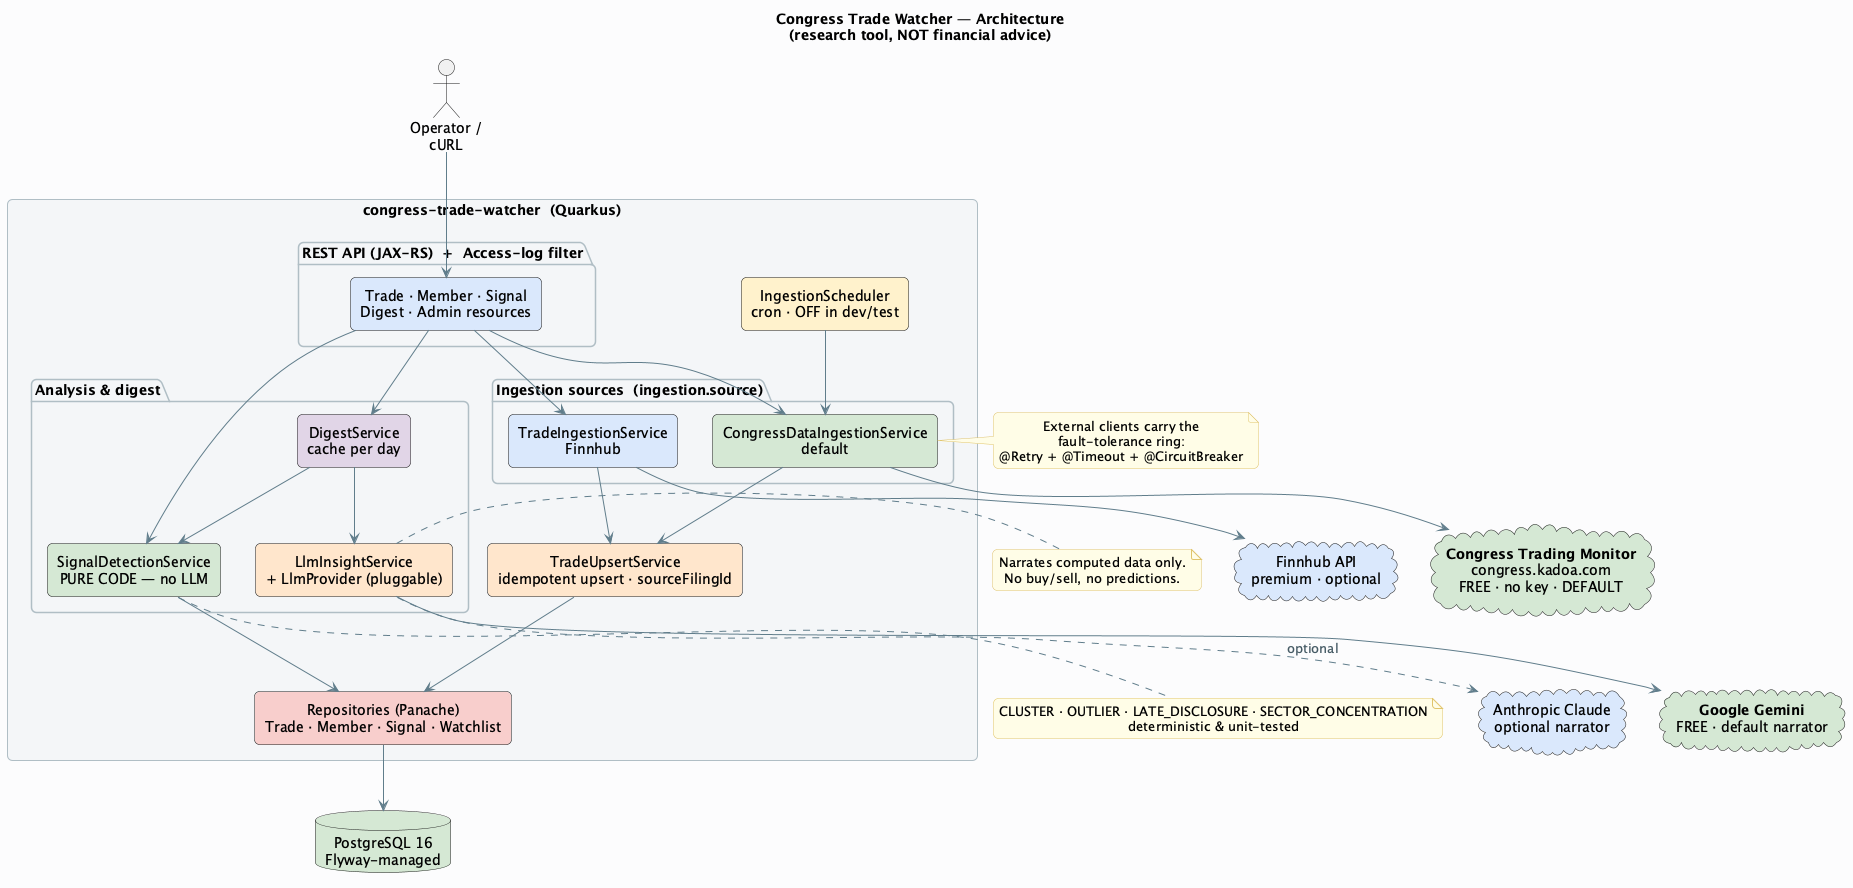
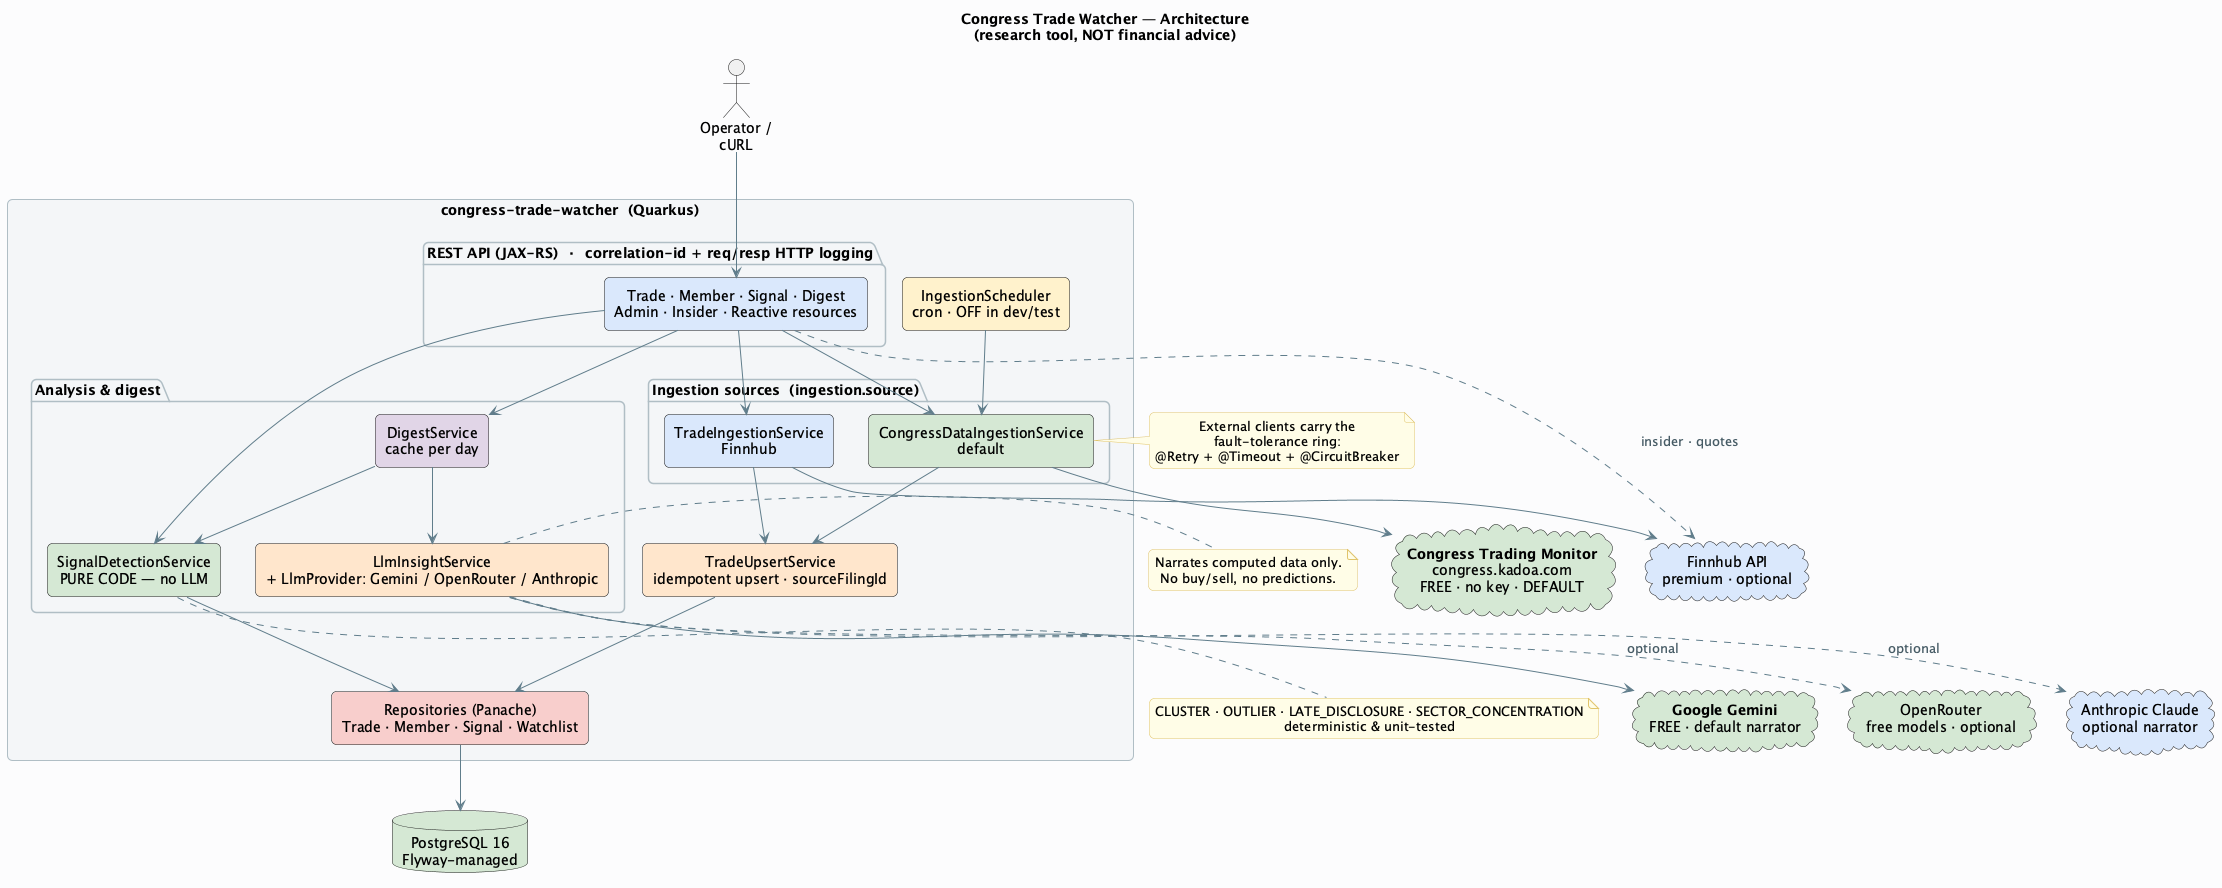
Log OpenRouter served model/provider; refresh diagrams for OpenRouter
- OpenRouterResponse captures `provider`; the provider now logs the requested
  model plus what actually served (e.g. openrouter/free -> Nvidia /
  nvidia/nemotron-...:free). Extra response fields (reasoning, cost, *_details,
  etc.) are still ignored via @user — content is read from
  choices[0].message.content, so the real response shape is handled.
- architecture.puml/.drawio (+ rendered PNG): add OpenRouter as a third narrator,
  surface the Insider/Reactive resources and correlation-id/HTTP logging.
- sequence-digest.puml (+ PNG): generalise the LLM step to the selected provider
  and reflect the masked ==>/<== request/response logging.

27 Surefire + 3 Failsafe green.

diff --git a/src/main/java/nz/co/ksktech/congresstrades/service/OpenRouterLlmProvider.java b/src/main/java/nz/co/ksktech/congresstrades/service/OpenRouterLlmProvider.java
@@ -53,8 +53,9 @@ public class OpenRouterLlmProvider implements LlmProvider {
 
         String text = response.firstText();
         OpenRouterResponse.Usage usage = response.usage();
-        LOG.infof("LLM via openrouter (model=%s, finishReason=%s, chars=%d, tokens prompt/completion=%s/%s)",
-                cfg.model(), response.finishReason(), text.length(),
+        LOG.infof("LLM via openrouter (requested=%s, served=%s/%s, finishReason=%s, chars=%d, "
+                        + "tokens prompt/completion=%s/%s)",
+                cfg.model(), response.provider(), response.model(), response.finishReason(), text.length(),
                 usage != null ? usage.promptTokens() : "?",
                 usage != null ? usage.completionTokens() : "?");
         return text;

diff --git a/src/main/java/nz/co/ksktech/congresstrades/client/dto/OpenRouterResponse.java b/src/main/java/nz/co/ksktech/congresstrades/client/dto/OpenRouterResponse.java
@@ -13,6 +13,7 @@ import java.util.List;
 public record OpenRouterResponse(
         String id,
         String model,
+        String provider,
         List<Choice> choices,
         Usage usage
 ) {